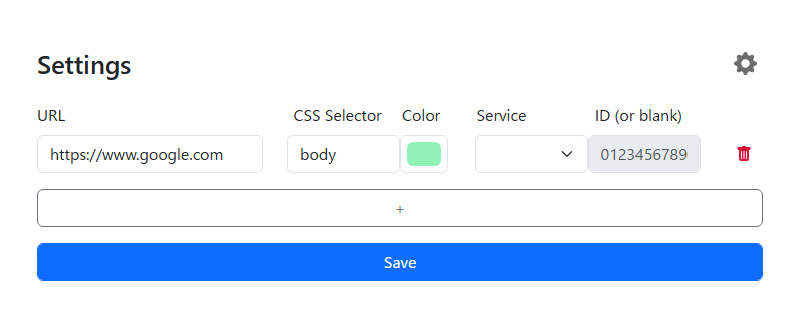
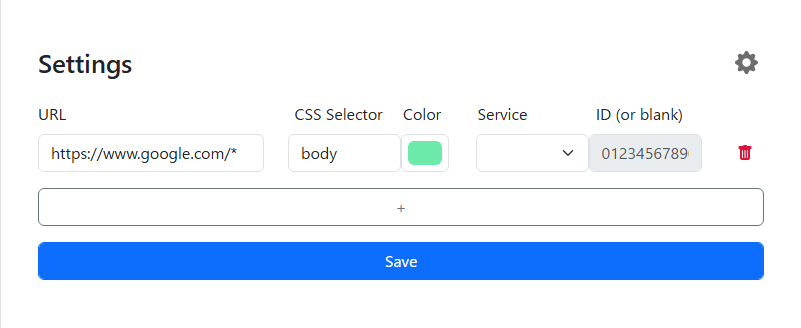
[small fixed] 画像と説明文微修正

diff --git a/view/info.html b/view/info.html
@@ -78,7 +78,30 @@
                 class="img-fluid shadowed-img"
             /></a>
           </div>
-
+          <!-- About -->
+          <div class="card mb-3">
+            <div class="card-header">
+              <strong>About</strong>
+            </div>
+            <div class="card-body">
+              <p>
+                This “Color changer” is a tool to change the background color,
+                header color, etc. of a website.<br />
+                You can change any part you like.<br />
+                However, it requires a little knowledge of CSS selectors!<br />
+                It is not difficult. Learn a little and enjoy using this tool.
+                <br />
+                Thank you!
+              </p>
+              <p>
+                この「Color
+                changer」は、webサイトの背景色やヘッダーの色などを変えるためのツールです。<br />
+                どんな箇所でも好きな色に変更することができます。<br />
+                少しばかりCSSセレクタの知識が必要ですが、難しくありません。<br />
+                ぜひツールを使って楽しく遊んで頂ければと思います！
+              </p>
+            </div>
+          </div>
           <!-- URL Section -->
           <div class="card mb-3">
             <div class="card-header">
@@ -95,11 +118,7 @@
                 には、色を変更したいウェブページのURLを指定します。正規表現が使えます。
               </p>
               <div class="alert alert-info" role="alert">
-                <p>
-                  Example1 (例): 　<code
-                    >https://en.wikipedia.org/wiki/Test</code
-                  >
-                </p>
+                <p>Example1 (例): 　<code>https://www.google.com/*</code></p>
                 <p>
                   Example2 (例):
                   　<code>https://en.wikipedia.org/wiki/*</code>　←'*' for all
@@ -143,6 +162,14 @@
                   wiki pages
                 </p>
               </div>
+              <p>
+                If you don't know how to use it, just type in the example of the
+                image at the top of this page and search for something on
+                Google! You will see the background color change.
+              </p>
+              <p>
+                使い方に迷った際は、一度このページの最初の画像の例を打ち込んで、Googleで何かを検索して頂くと、背景の色が変わることを確認して頂けます。
+              </p>
             </div>
           </div>
 

diff --git a/view/import_export.html b/view/import_export.html
@@ -92,7 +92,7 @@
             <h1 class="h3 pt-5 mt-5 text-center">Export</h1>
             <div class="d-flex justify-content-center">
               <div class="row">
-                <button type="button" class="btn btn-primary mt-3 mb-3" id="export" data-bs-toggle="tooltip" data-bs-placement="right" data-bs-custom-class="custom-tooltip" data-bs-html="true" data-bs-title="Export current settings.<br> 現在の設定をエクスポートします。">Export Json</button>
+                <button type="button" class="btn btn-primary mt-3 mb-3" id="export" data-bs-toggle="tooltip" data-bs-placement="right" data-bs-custom-class="custom-tooltip" data-bs-html="true" data-bs-title="Export current settings.<br> 現在の設定をエクスポートします。">Export settings</button>
               </div>
             </div>
           </div>
@@ -118,13 +118,13 @@
           </div>
           <div class="card-body">
             <p>
-              You can import and export settings. Only Json format is supported. <br> 
-              hover over each button to see a description. <br>
-            The settings are saved in the order of row1, row2...</p>
+              You can import and export settings. Hover the cursor over each button to see a description.<br>
+              Only Json is supported as the import format. <br>
+              The settings are saved in the order of row1, row2...</p>
 
             <p>
               設定のインポート・エクスポートが可能です。各ボタンにホバーすることで説明を見れます。<br>
-              形式はJsonのみ対応しています。row1, row2...の順番に設定が保存されます。
+              インポート形式はJsonのみ対応しています。row1, row2...の順番に設定が保存されます。
             </p>
             <h5>Format</h5>
             <p>

diff --git a/view/popup.html b/view/popup.html
@@ -55,7 +55,7 @@
               type="url"
               class="form-control"
               id="url-row-1"
-              placeholder="https://www.example.com/*"
+              placeholder="https://www.google.com/*"
               required
             />
           </div>
